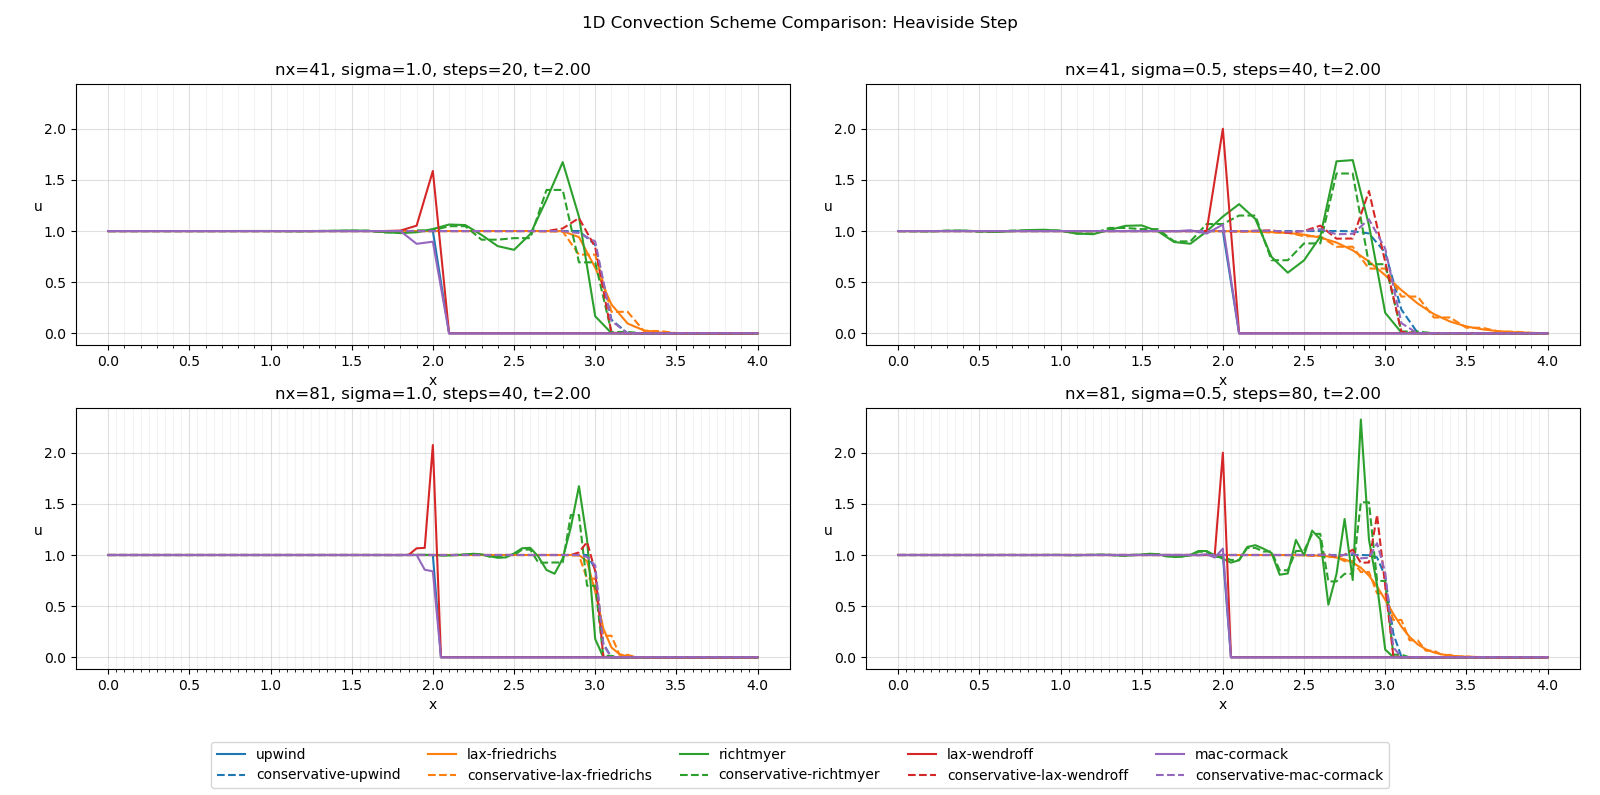
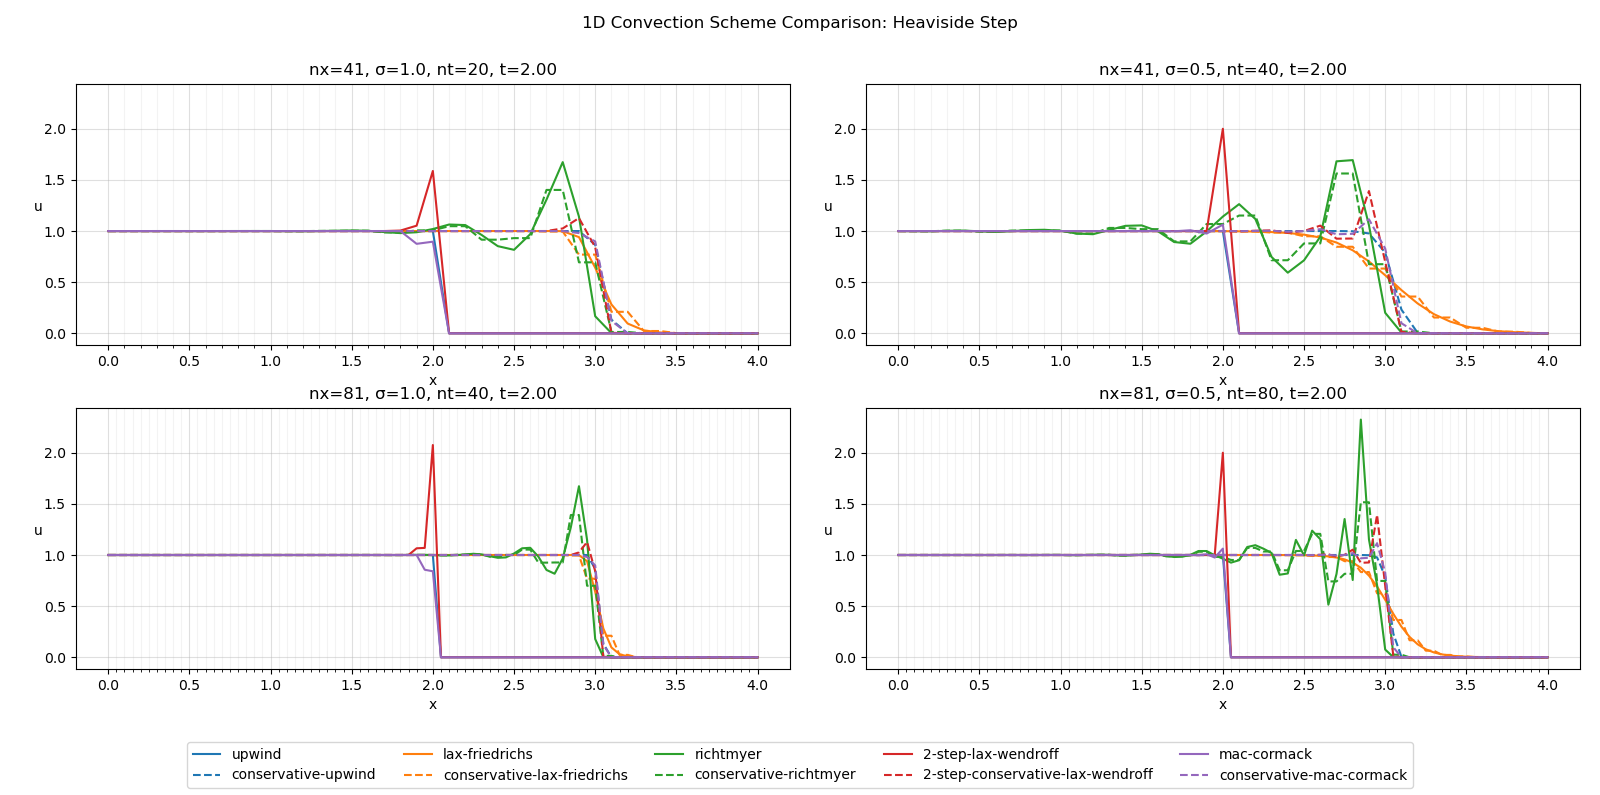
feat: enhance README and scripts for 1D inviscid Burgers scheme comparison

diff --git a/run_inviscid_burgers_scheme_comparison.py b/run_inviscid_burgers_scheme_comparison.py
@@ -125,6 +125,6 @@ for current_ax, nx, n_iter, sigma, epsilon in cases:
 handles, labels = ax[0, 0].get_legend_handles_labels()
 fig.legend(handles, labels, loc='lower center', ncol=5)
 
-fig.suptitle('1D Convection Scheme Comparison: Heaviside Step', y=0.98)
+fig.suptitle('1D Inviscid Burgers Scheme Comparison: Heaviside Step', y=0.98)
 fig.tight_layout(rect=[0, 0.10, 1, 0.96])
 plt.show()

diff --git a/run_convection_1d_scheme_comparison.py b/run_convection_1d_scheme_comparison.py
@@ -115,7 +115,7 @@ for current_ax, nx, n_iter, sigma in cases:
     final_time = n_iter * sigma * domain_length_x / ((nx - 1) * u_max)
     
     current_ax.set_title(
-        f'nx={nx}, sigma={sigma}, steps={n_iter}, t={final_time:.2f}'
+        f'nx={nx}, σ={sigma}, nt={n_iter}, t={final_time:.2f}'
     )
     current_ax.tick_params(labelleft=True)
 

diff --git a/README.md b/README.md
@@ -8,7 +8,7 @@ Currently implemented:
 
 * 1D linear advection with upwind, leapfrog, Lax-Friedrichs, and Lax-Wendroff schemes
 * 2D linear advection
-* 1D nonlinear convection with upwind, Lax-Friedrichs, Richtmyer, Lax-Wendroff, and MacCormack schemes in non-conservative and conservative forms
+* 1D nonlinear convection / inviscid Burgers with upwind, Lax-Friedrichs, Richtmyer, one-step and two-step Lax-Wendroff, MacCormack, and implicit Beam-Warming schemes, including conservative flux-form variants
 * 2D nonlinear convection
 * 1D and 2D diffusion
 * 1D and 2D Burgers equation
@@ -38,6 +38,10 @@ run_*.py                    executable examples
 ### 1D nonlinear convection scheme comparison
 
 ![1D convection scheme comparison](docs/images/convection_1d_scheme_comparison.png)
+
+### 1D inviscid Burgers scheme comparison
+
+![1D inviscid Burgers scheme comparison](docs/images/inviscid_burgers_scheme_comparison.png)
 
 ### 2D diffusion
 
@@ -79,7 +83,7 @@ The current solvers model:
 
   du/dt + d(u^2 / 2)/dx = 0
 
-  using selectable explicit schemes: upwind, Lax-Friedrichs, Richtmyer, Lax-Wendroff, and MacCormack. Conservative variants are included for flux-form shock propagation.
+  using selectable explicit schemes: upwind, Lax-Friedrichs, Richtmyer, one-step Lax-Wendroff, two-step Lax-Wendroff, and MacCormack. Conservative flux-form variants are included for shock propagation, along with implicit Beam-Warming and damped implicit Beam-Warming variants for inviscid Burgers experiments.
 
 * the 2D nonlinear convection equations:
 
@@ -157,6 +161,8 @@ For the 1D Burgers equation, the numerical solver is validated against the analy
 
 The 1D convection scheme comparison script visualizes conservative and non-conservative schemes on a Heaviside step problem, comparing grid resolution and CFL number effects. This highlights numerical diffusion, dispersive oscillations near shocks, and conservative-form shock propagation.
 
+The inviscid Burgers scheme comparison script studies conservative shock-capturing schemes, including implicit Beam-Warming and damped implicit Beam-Warming, across grid resolutions, CFL numbers, and artificial-damping coefficients.
+
 These comparisons are used to assess solver correctness and visualize agreement between numerical and analytical results.
 
 ## Roadmap
@@ -167,6 +173,8 @@ These comparisons are used to assess solver correctness and visualize agreement 
 * Add convergence studies for grid spacing and time-step sensitivity.
 * Add limiters or artificial viscosity for oscillation control near shocks.
 * Add regression tests for 1D convection scheme updates.
+* Validate inviscid Burgers shock speeds against Rankine-Hugoniot predictions.
+* Study damping sensitivity for implicit Beam-Warming schemes.
 
 ## Run
 
@@ -176,6 +184,7 @@ python run_advection_1d_scheme_comparison.py
 python run_advection_2d.py
 python run_convection_1d.py
 python run_convection_1d_scheme_comparison.py
+python run_inviscid_burgers_scheme_comparison.py
 python run_convection_2d.py
 python run_diffusion_1d.py
 python run_diffusion_1d_vs_heat.py
